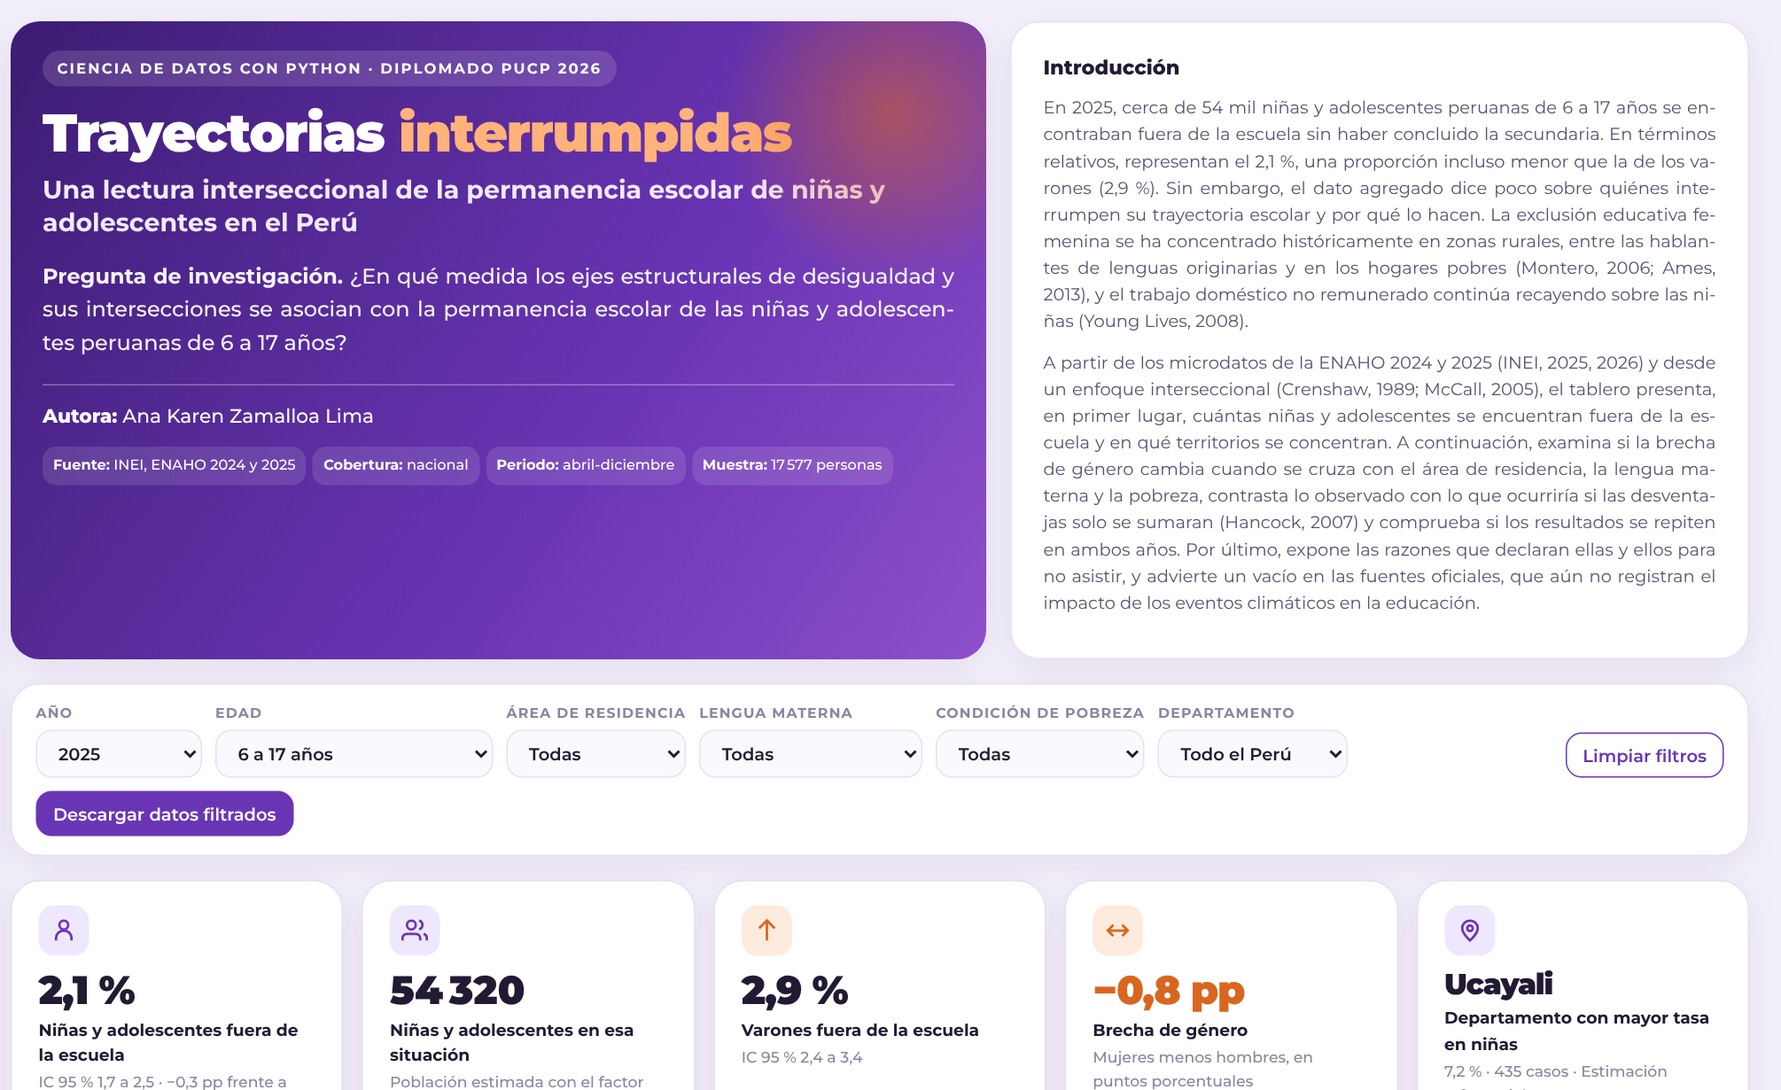
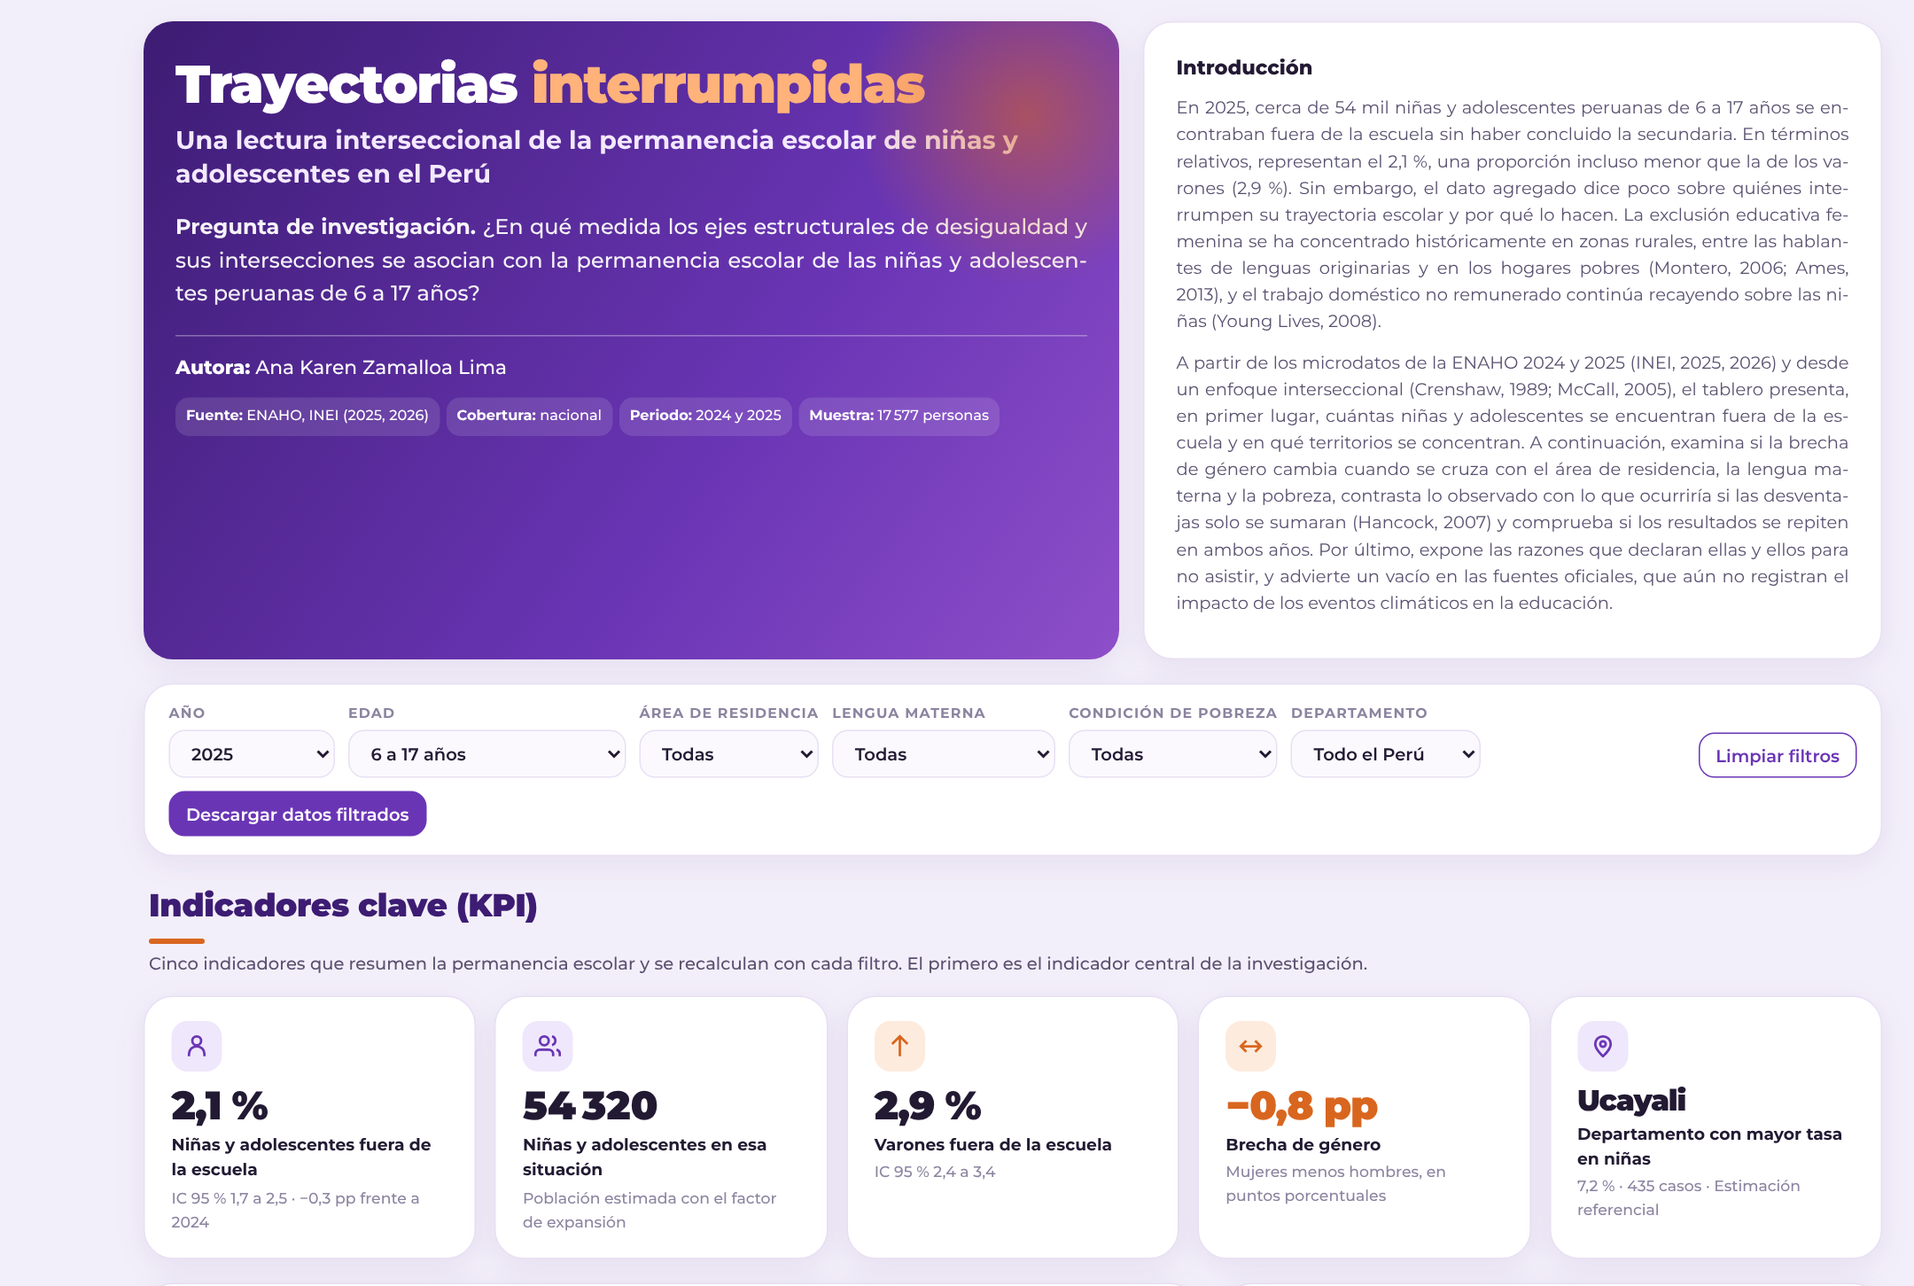
Ajustes de diseño del dashboard

diff --git a/tarea_7/web/index.html b/tarea_7/web/index.html
@@ -41,7 +41,7 @@ main{margin-left:108px;padding:16px 24px 40px 0;max-width:1480px}
 .hero{background:linear-gradient(125deg,var(--morado-osc) 0%,var(--morado) 62%,#8E4FC9 100%);color:#fff;border:none;position:relative;overflow:hidden}
 .hero:after{content:"";position:absolute;right:-60px;top:-60px;width:260px;height:260px;border-radius:50%;background:radial-gradient(circle,rgba(217,102,31,.55),transparent 70%)}
 .etiqueta{display:inline-block;font-size:11px;font-weight:700;letter-spacing:1.4px;text-transform:uppercase;background:rgba(255,255,255,.14);padding:5px 11px;border-radius:30px}
-h1{font-weight:900;font-size:40px;line-height:1.05;margin:14px 0 10px;letter-spacing:-1px}
+h1{font-weight:900;font-size:40px;line-height:1.05;margin:4px 0 10px;letter-spacing:-1px}
 h1 em{font-style:normal;color:#FFB27A}
 .subtitulo{font-weight:700;font-size:19px;line-height:1.3;margin:0 0 14px;max-width:760px;color:#F3E9FF}
 .pregunta{font-weight:500;font-size:16px;max-width:760px;opacity:.95;text-align:justify;hyphens:auto}
@@ -53,7 +53,10 @@ h1 em{font-style:normal;color:#FFB27A}
 .meta span{white-space:nowrap;font-size:10.8px;font-weight:500;background:rgba(255,255,255,.12);padding:6px 8px;border-radius:10px}
 .contexto h3{margin:0 0 8px;font-weight:800;font-size:15px}
 .contexto p{margin:0 0 10px;color:var(--tinta-2);font-size:13px;text-align:justify;hyphens:auto}
-h2{font-weight:900;font-size:22px;margin:0 0 2px;letter-spacing:-.3px}
+h2{font-weight:900;font-size:22px;margin:0 0 4px;letter-spacing:-.3px;color:var(--morado-osc)}
+h2:after{content:"";display:block;width:42px;height:4px;border-radius:4px;background:var(--naranja);margin-top:7px}
+.titulo-seccion{margin:6px 0 12px 4px}
+.titulo-seccion h2{font-size:24px}
 .sub{color:var(--tinta-2);font-weight:500;font-size:13px;margin:0 0 14px;text-align:justify;hyphens:auto}
 /* filtros */
 .filtros{position:sticky;top:10px;z-index:15;display:flex;flex-wrap:wrap;gap:10px;align-items:flex-end;margin-bottom:18px;padding:14px 18px}
@@ -89,9 +92,13 @@ select:focus,button:focus-visible{outline:2px solid var(--morado);outline-offset
 .maplibregl-popup-content{font-family:Montserrat;border-radius:14px;padding:12px 14px;box-shadow:var(--sombra)}
 .ranking{max-height:560px;overflow:auto}
 table{width:100%;border-collapse:collapse;font-size:12.5px}
-th{text-align:left;font-size:10.5px;letter-spacing:.7px;text-transform:uppercase;color:var(--tinta-3);font-weight:700;padding:6px 6px;border-bottom:1.5px solid var(--borde);position:sticky;top:0;background:#fff}
+th{text-align:left;font-size:10.5px;letter-spacing:.7px;text-transform:uppercase;color:var(--morado);font-weight:800;padding:9px 8px;border-bottom:none;position:sticky;top:0;background:var(--morado-claro)}
+th:first-child{border-radius:10px 0 0 10px}th:last-child{border-radius:0 10px 10px 0}
 td{padding:7px 6px;border-bottom:1px solid #F1ECF8;font-weight:500}
-td.sig{color:var(--morado);font-weight:800}
+td span.pill{background:var(--morado);color:#fff;border-radius:20px;padding:3px 9px;font-weight:700;font-size:12px;white-space:nowrap}
+.pill-ley{display:inline-block;background:var(--morado);color:#fff;border-radius:20px;padding:2px 9px;font-weight:700;font-size:11.5px}
+.pill-ley.no{background:#F1ECF8;color:var(--tinta-2)}
+td span.nopill{background:#F1ECF8;color:var(--tinta-2);border-radius:20px;padding:3px 9px;font-size:12px;white-space:nowrap}
 #tablaReplica tr,#tablaContraste tr{cursor:default}
 tr.sel td{background:var(--morado-claro);font-weight:700}
 tr{cursor:pointer}
@@ -108,6 +115,10 @@ tr{cursor:pointer}
 .texto h3{font-weight:800;font-size:15px;margin:16px 0 6px}
 .texto p,.texto li{color:var(--tinta-2);font-size:13px;text-align:justify;hyphens:auto}
 .texto ul{padding-left:18px;margin:6px 0}
+.dos-col{display:grid;grid-template-columns:1fr 1fr;gap:34px}
+#fuentes ul{columns:2;column-gap:34px}
+#fuentes li{break-inside:avoid;margin-bottom:5px}
+@media (max-width:1100px){.dos-col{grid-template-columns:1fr}#fuentes ul{columns:1}}
 .caja-val{background:var(--morado-claro);border-radius:14px;padding:12px 14px;font-family:ui-monospace,Menlo,monospace;font-size:11.5px;white-space:pre-wrap;color:var(--morado-osc)}
 .pie{text-align:center;color:var(--tinta-3);font-size:12px;margin-top:10px}
 .aviso{font-size:11.5px;color:var(--tinta-3);margin-top:8px;text-align:justify}
@@ -129,7 +140,6 @@ tr{cursor:pointer}
 <main>
 <section id="inicio" class="portada">
   <div class="tarjeta hero">
-    <span class="etiqueta">Ciencia de Datos con Python · Diplomado PUCP 2026</span>
     <h1>Trayectorias <em>interrumpidas</em></h1>
     <p class="subtitulo">Una lectura interseccional de la permanencia escolar de niñas y adolescentes en el Perú</p>
     <p class="pregunta"><b>Pregunta de investigación.</b> ¿En qué medida los ejes estructurales de desigualdad y sus intersecciones se asocian con la permanencia escolar de las niñas y adolescentes peruanas de 6 a 17 años?</p>
@@ -162,6 +172,7 @@ tr{cursor:pointer}
   <button class="boton" id="descargar">Descargar datos filtrados</button>
 </div>
 
+<div class="titulo-seccion"><h2>Indicadores clave (KPI)</h2><p class="sub">Cinco indicadores que resumen la permanencia escolar y se recalculan con cada filtro. El primero es el indicador central de la investigación.</p></div>
 <section id="indicadores" class="kpis">
   <div class="tarjeta kpi"><div class="icono morado-bg"><svg viewBox="0 0 24 24" fill="none" stroke="currentColor" stroke-width="2.2"><circle cx="12" cy="7" r="4"/><path d="M5 21v-2a7 7 0 0 1 14 0v2"/></svg></div>
     <div class="valor" id="k1">–</div><div class="nombre">Niñas y adolescentes fuera de la escuela</div><div class="nota" id="k1n">Sin secundaria completa</div></div>
@@ -222,7 +233,8 @@ tr{cursor:pointer}
 <section class="fila f-2">
   <div class="tarjeta">
     <h2>¿Se repite en 2024? Prueba de replicación</h2>
-    <p class="sub">Razón de momios (OR) de cada interacción con el sexo en el modelo logístico. Un valor mayor que 1 indica que el eje aumenta la salida escolar de las niñas más que la de los varones. En morado, los resultados significativos al 95&nbsp;%.</p>
+    <p class="sub">Razón de momios (OR) de cada interacción con el sexo en el modelo logístico. Un valor mayor que 1 indica que el eje aumenta la salida escolar de las niñas más que la de los varones.</p>
+    <p class="sub"><span class="pill-ley">Morado</span> significativo al 95&nbsp;% (p menor que 0,05) &nbsp;&nbsp;<span class="pill-ley no">Gris</span> no significativo</p>
     <table id="tablaReplica"><thead><tr><th>Interacción</th><th>2024</th><th>2025</th><th>2024 y 2025</th></tr></thead><tbody></tbody></table>
     <p class="aviso">La inversión de la brecha en la lengua materna indígena tiene la misma dirección en ambos años y es significativa al combinar 2024 y 2025. En cambio, la interacción con la pobreza observada en 2025 no se replica en 2024 y desaparece en el acumulado, por lo que no se considera un resultado robusto.</p>
   </div>
@@ -256,18 +268,39 @@ tr{cursor:pointer}
     <p>Con 2024 y 2025 combinados, el 14,1&nbsp;% de las niñas y adolescentes fuera de la escuela declara dedicarse a los quehaceres del hogar, frente al 1,7&nbsp;% de los varones, y la diferencia es significativa en cada año por separado. Los problemas familiares también pesan más entre ellas (18,2&nbsp;% frente a 7,6&nbsp;%), mientras que entre ellos predominan el trabajo (24,7&nbsp;%) y el desinterés por el estudio (16,6&nbsp;%). El trabajo de cuidado no remunerado aparece así como una barrera específicamente femenina.</p></div>
 </section>
 
-<section id="metodologia" class="fila f-2">
+<section id="metodologia" class="fila">
   <div class="tarjeta texto">
     <h2>Metodología</h2>
-    <h3>Fuente y población</h3>
+    <div class="dos-col"><div><h3>Fuente y población</h3>
     <p>Se emplea la Encuesta Nacional de Hogares (ENAHO) anual de 2024 y 2025 (INEI, 2025, 2026), con los módulos 02 (Miembros del hogar), 03 (Educación) y 34 (Sumaria) de cada año, procesados con la misma metodología. La población de estudio comprende a las y los residentes habituales de 6 a 17 años, rango que abarca la educación primaria y secundaria. Se conservan únicamente las entrevistas realizadas entre abril y diciembre, puesto que entre enero y marzo el 87,3&nbsp;% (2024) y el 89,3&nbsp;% (2025) de quienes no estaban matriculados declaró encontrarse de vacaciones, lo que impide medir la permanencia escolar en esos meses.</p>
     <h3>Construcción del indicador</h3>
     <p>Una persona interrumpe su trayectoria escolar cuando no está matriculada o no asiste actualmente (preguntas 306 y 307) y, además, no ha concluido la educación secundaria (pregunta 301A). Los ejes de desigualdad son el sexo (P207), el área de residencia según el estrato muestral (estratos 1 a 5 urbanos y 6 a 8 rurales), la lengua materna (P300A, que agrupa el quechua, el aimara y las lenguas amazónicas como lenguas indígenas) y la condición de pobreza monetaria del hogar. Todas las cifras se ponderan con el factor de expansión del módulo de educación (FACTORA07).</p>
-    <h3>Enfoque interseccional</h3>
+    </div><div><h3>Enfoque interseccional</h3>
     <p>Se adopta el enfoque intercategorial (McCall, 2005), que utiliza provisionalmente las categorías existentes para documentar desigualdades entre grupos. Para no presuponer el resultado, la relación entre categorías se trata como una cuestión empírica abierta (Hancock, 2007). Por ello se estiman dos modelos logísticos ponderados con errores agrupados por conglomerado, uno aditivo y otro con interacciones entre el sexo y los demás ejes, y se contrasta conjuntamente si dichas interacciones son nulas. El análisis se repite en 2024 como prueba de replicación y se estima también con ambos años, controlando por el año, para ganar precisión.</p>
     <h3>Validación</h3>
     <div class="caja-val" id="validacion"></div>
+  </div></div>
   </div>
+</section>
+<section class="fila f-2">
+  <div class="tarjeta texto">
+    <h2>Limitaciones</h2>
+    <ul>
+      <li>La ENAHO es una encuesta transversal, por lo que los resultados expresan asociaciones y no relaciones causales.</li>
+      <li>Como la interrupción escolar es un evento poco frecuente, varias posiciones sociales y departamentos presentan coeficientes de variación superiores al 15&nbsp;%. Según el criterio del INEI, esas estimaciones son referenciales y se muestran con sus intervalos de confianza.</li>
+      <li>La razón de inasistencia es la principal declarada por la persona informante del hogar y no recoge causas múltiples.</li>
+      <li>El Plan de Acción en Género y Cambio Climático reconoce que el cambio climático afecta de manera diferenciada a mujeres y niñas e incluye la educación y la gestión del riesgo entre sus áreas prioritarias. No obstante, la pregunta de la ENAHO sobre las razones de inasistencia no contempla los desastres ni los eventos climáticos, de modo que esta dimensión no puede medirse con la principal fuente oficial, aun cuando un sondeo de Plan International Perú encontró que casi la mitad de las adolescentes consultadas vio afectada su asistencia por emergencias climáticas (Plan International Perú, 2026). Este vacío constituye en sí mismo un hallazgo sobre las fuentes.</li>
+      <li>La misma pregunta tampoco incluye el embarazo ni la maternidad entre sus opciones, pese a que en 2025 la tasa de embarazo adolescente (15 a 19 años) fue de 16,3&nbsp;% en las áreas rurales y de 5,4&nbsp;% en las urbanas, según la ENDES (UNFPA, 2026). Es posible que parte de los «problemas familiares» que declaran las niñas corresponda a esta causa.</li>
+      <li>Se consideraron las tasas de deserción interanual de ESCALE (Minedu), pero no se emplearon porque provienen de registros administrativos que no informan la pobreza ni la lengua materna del hogar, y porque miden un fenómeno distinto, la salida entre un año escolar y el siguiente.</li>
+      <li>La lengua materna aproxima la pertenencia a un pueblo indígena, aunque no equivale a la autoidentificación étnica.</li>
+    </ul>
+  </div>
+  <div class="tarjeta texto">
+    <h2>Uso de inteligencia artificial</h2>
+    <p>Los microdatos se descargaron con Claude Code mediante el script <code>obtener_datos.py</code>. El procesamiento, el análisis y este tablero se desarrollaron con apoyo de Claude. La pregunta de investigación, el marco teórico interseccional, las decisiones metodológicas y la verificación de cada cifra contra las estadísticas oficiales del INEI estuvieron a cargo de la autora.</p>
+  </div>
+</section>
+<section id="fuentes" class="fila">
   <div class="tarjeta texto">
     <h2>Fuentes</h2>
     <ul>
@@ -289,18 +322,6 @@ tr{cursor:pointer}
       <li>Viveros Vigoya, M. (2016). La interseccionalidad. Una aproximación situada a la dominación. <i>Debate Feminista</i>, 52, 1-17.</li>
       <li>Young Lives (2008). <i>Young Lives. Peru Round 2 Survey. Summary</i>. Universidad de Oxford.</li>
     </ul>
-    <h2 style="margin-top:18px">Limitaciones</h2>
-    <ul>
-      <li>La ENAHO es una encuesta transversal, por lo que los resultados expresan asociaciones y no relaciones causales.</li>
-      <li>Como la interrupción escolar es un evento poco frecuente, varias posiciones sociales y departamentos presentan coeficientes de variación superiores al 15&nbsp;%. Según el criterio del INEI, esas estimaciones son referenciales y se muestran con sus intervalos de confianza.</li>
-      <li>La razón de inasistencia es la principal declarada por la persona informante del hogar y no recoge causas múltiples.</li>
-      <li>El Plan de Acción en Género y Cambio Climático reconoce que el cambio climático afecta de manera diferenciada a mujeres y niñas e incluye la educación y la gestión del riesgo entre sus áreas prioritarias. No obstante, la pregunta de la ENAHO sobre las razones de inasistencia no contempla los desastres ni los eventos climáticos, de modo que esta dimensión no puede medirse con la principal fuente oficial, aun cuando un sondeo de Plan International Perú encontró que casi la mitad de las adolescentes consultadas vio afectada su asistencia por emergencias climáticas (Plan International Perú, 2026). Este vacío constituye en sí mismo un hallazgo sobre las fuentes.</li>
-      <li>La misma pregunta tampoco incluye el embarazo ni la maternidad entre sus opciones, pese a que en 2025 la tasa de embarazo adolescente (15 a 19 años) fue de 16,3&nbsp;% en las áreas rurales y de 5,4&nbsp;% en las urbanas, según la ENDES (UNFPA, 2026). Es posible que parte de los «problemas familiares» que declaran las niñas corresponda a esta causa.</li>
-      <li>Se consideraron las tasas de deserción interanual de ESCALE (Minedu), pero no se emplearon porque provienen de registros administrativos que no informan la pobreza ni la lengua materna del hogar, y porque miden un fenómeno distinto, la salida entre un año escolar y el siguiente.</li>
-      <li>La lengua materna aproxima la pertenencia a un pueblo indígena, aunque no equivale a la autoidentificación étnica.</li>
-    </ul>
-    <h2 style="margin-top:18px">Uso de inteligencia artificial</h2>
-    <p>Los microdatos se descargaron con Claude Code mediante el script <code>obtener_datos.py</code>. El procesamiento, el análisis y este tablero se desarrollaron con apoyo de Claude. La pregunta de investigación, el marco teórico interseccional, las decisiones metodológicas y la verificación de cada cifra contra las estadísticas oficiales del INEI estuvieron a cargo de la autora.</p>
   </div>
 </section>
 <p class="pie">Ana Karen Zamalloa Lima · Ciencia de Datos con Python, Diplomado PUCP 2026 · Datos de la ENAHO 2024 y 2025, INEI (2025, 2026) · <a href="https://github.com/anakaren-zl/data-science-python-2026/tree/main/tarea_7" target="_blank" rel="noopener">Repositorio</a></p>
@@ -422,7 +443,7 @@ function gPos(){
     trazas.push({x:f.map(p=>p.pred_aditivo),y:orden,name:`${nom} (si las desventajas solo se sumaran)`,mode:'markers',type:'scatter',
       marker:{size:11,symbol:'diamond',color:s==='Mujer'?'#D7C3F2':'#F2B48A',line:{color:col,width:1.5}},hoverinfo:'skip'});
   });
-  Plotly.react('gPos',trazas,L({margin:{l:360,r:18,t:30,b:46},xaxis:{title:{text:'% fuera de la escuela sin secundaria completa',standoff:14},rangemode:'tozero',gridcolor:C.rejilla,ticksuffix:' %'},yaxis:{gridcolor:C.rejilla,autorange:'reversed'}}),CFG);
+  Plotly.react('gPos',trazas,L({legend:{orientation:'h',y:1.02,yanchor:'bottom',x:0,font:{size:12}},margin:{l:360,r:18,t:90,b:70},xaxis:{title:{text:'% fuera de la escuela',standoff:22},rangemode:'tozero',gridcolor:C.rejilla,ticksuffix:' %'},yaxis:{gridcolor:C.rejilla,autorange:'reversed'}}),CFG);
   const md=D.modelos[filtro.anio], per=filtro.anio==='2024-2025'?'2024 y 2025 (acumulado, con control por año)':filtro.anio;
   document.getElementById('avisoModelo').textContent=`Prueba de Wald conjunta de las ${md.wald_gl} interacciones con el sexo, χ² = ${fmt(md.wald_chi2,2)} y p = ${fmt(md.wald_p,3)}. Interacción mujer × lengua indígena, OR = ${fmt(md.or_mujer_indigena,2)} (p = ${fmt(md.p_mujer_indigena,3)}). Interacción mujer × pobreza, OR = ${fmt(md.or_mujer_pobre,2)} (p = ${fmt(md.p_mujer_pobre,3)}). Los círculos vacíos son estimaciones referenciales. Periodo ${per}. Este gráfico responde al filtro de año y usa toda la muestra de ese periodo.`;
 }
@@ -452,10 +473,11 @@ function gComp(){
   const nom={Urbana:'Área urbana',Rural:'Área rural','Indígena':'Lengua indígena',Castellano:'Lengua castellana',Pobre:'Hogar pobre','No pobre':'Hogar no pobre'};
   const tot=Object.keys(acc).filter(k=>!k.includes(' · ')).reduce((a,k)=>a+acc[k],0);
   const labels=ids.map(id=>nom[id.split(' · ').pop()]);
-  const textos=ids.map((id,i)=>`${labels[i]}<br>${fmt(100*acc[id]/tot,0)}\u00a0%`);
+  // Solo se rotulan los segmentos de 5 % o más; el resto se lee al pasar el cursor
+  const textos=ids.map((id,i)=>{const pc=100*acc[id]/tot;return pc>=5?`<b>${fmt(pc,0)}\u00a0%</b><br>${labels[i]}`:'';});
   const colores=ids.map(id=>{const n=id.split(' · ').length;return n===1?(id==='Rural'?'#3D1C73':'#6A35B5'):n===2?(id.endsWith('Indígena')?'#D9661F':'#8B5FCF'):(id.endsWith('No pobre')?'#D7C3F2':'#F2B48A');});
   Plotly.react('gComp',[{type:'sunburst',ids,labels,parents,values:ids.map(i=>acc[i]),branchvalues:'total',marker:{colors:colores,line:{color:'#fff',width:2}},
-    text:textos,textinfo:'text',insidetextfont:{family:'Montserrat',size:12},customdata:ids.map(id=>[fmtN(acc[id]),fmt(100*acc[id]/tot)]),hovertemplate:'<b>%{label}</b><br>%{customdata[0]} niñas y adolescentes<br>%{customdata[1]}\u00a0% del total<extra></extra>'}],
+    text:textos,textinfo:'text',insidetextorientation:'horizontal',insidetextfont:{family:'Montserrat',size:10.5},customdata:ids.map(id=>[fmtN(acc[id]),fmt(100*acc[id]/tot)]),hovertemplate:'<b>%{label}</b><br>%{customdata[0]} niñas y adolescentes<br>%{customdata[1]}\u00a0% del total<extra></extra>'}],
     L({margin:{l:4,r:4,t:4,b:4}}),CFG);
 }
 
@@ -545,9 +567,9 @@ function descargar(){
 function tablasRobustez(){
   document.querySelector('#tablaContraste tbody').innerHTML = D.contraste.map(c=>`<tr><td>${c.indicador}</td><td>${c.anio}</td><td>${fmt(c.este_estudio,2)}\u00a0%</td><td>${fmt(c.inei)}\u00a0%</td><td>${c.diferencia_pp>0?'+':c.diferencia_pp<0?'−':''}${fmt(Math.abs(c.diferencia_pp),2)}</td></tr>`).join('');
   const per=['2024','2025','2024-2025'], et={'2024':'2024','2025':'2025','2024-2025':'2024 y 2025'};
-  const fila=(nombre,clave)=>`<tr><td>${nombre}</td>${per.map(p=>{const o=D.modelos[p]['or_mujer_'+clave],pv=D.modelos[p]['p_mujer_'+clave];return `<td class="${pv<0.05?'sig':''}">${fmt(o,2)} <span class="ref">(p = ${fmt(pv,3)})</span></td>`;}).join('')}</tr>`;
+  const fila=(nombre,clave)=>`<tr><td>${nombre}</td>${per.map(p=>{const o=D.modelos[p]['or_mujer_'+clave],pv=D.modelos[p]['p_mujer_'+clave];return `<td><span class="${pv<0.05?'pill':'nopill'}">OR ${fmt(o,2)} · p = ${fmt(pv,3)}</span></td>`;}).join('')}</tr>`;
   document.querySelector('#tablaReplica tbody').innerHTML = fila('Mujer × lengua indígena','indigena') + fila('Mujer × hogar pobre','pobre') + fila('Mujer × área rural','rural')
-    + `<tr><td>Prueba de Wald conjunta</td>${per.map(p=>`<td class="${D.modelos[p].wald_p<0.05?'sig':''}">χ² = ${fmt(D.modelos[p].wald_chi2,2)} <span class="ref">(p = ${fmt(D.modelos[p].wald_p,3)})</span></td>`).join('')}</tr>`;
+    + `<tr><td>Prueba de Wald conjunta</td>${per.map(p=>`<td><span class="${D.modelos[p].wald_p<0.05?'pill':'nopill'}">χ² ${fmt(D.modelos[p].wald_chi2,2)} · p = ${fmt(D.modelos[p].wald_p,3)}</span></td>`).join('')}</tr>`;
 }
 
 function todo(){ kpis(); gEdad(); gEjes(); gRaz(); gComp(); gPos(); actualizarMapa(); }
